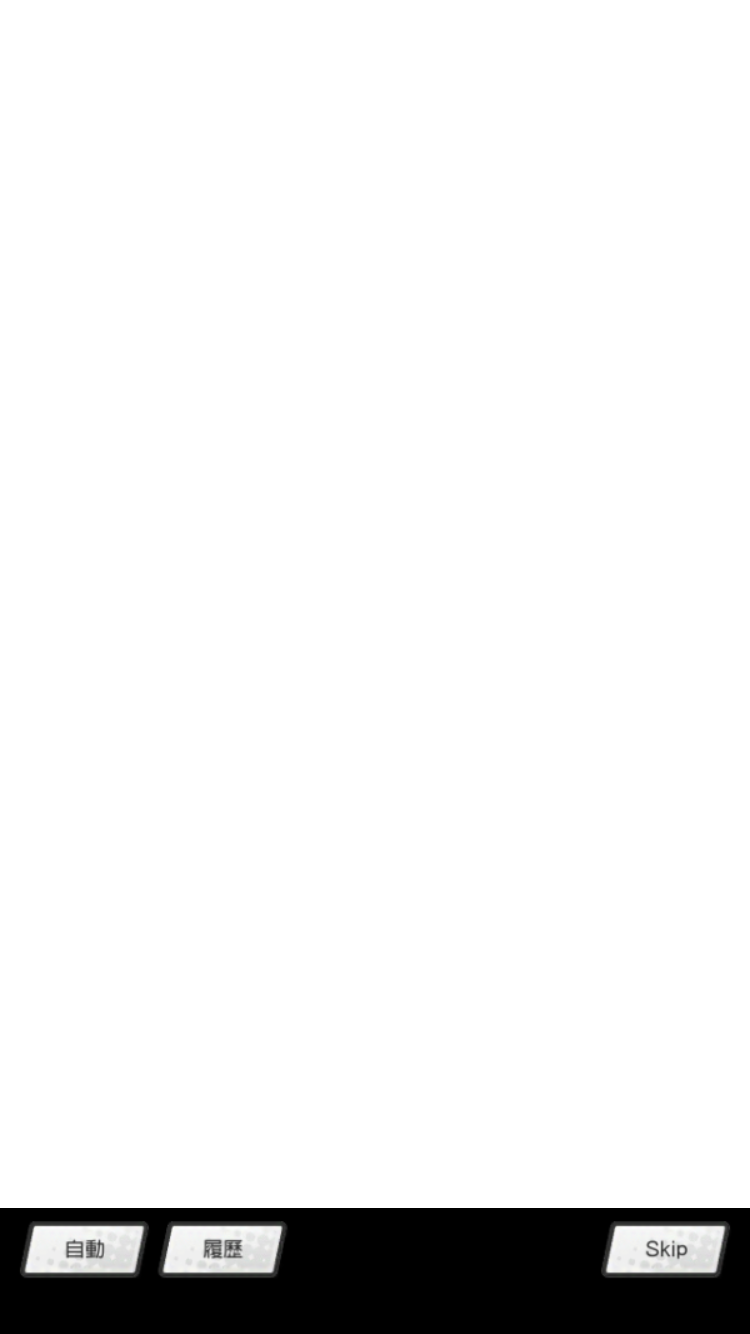
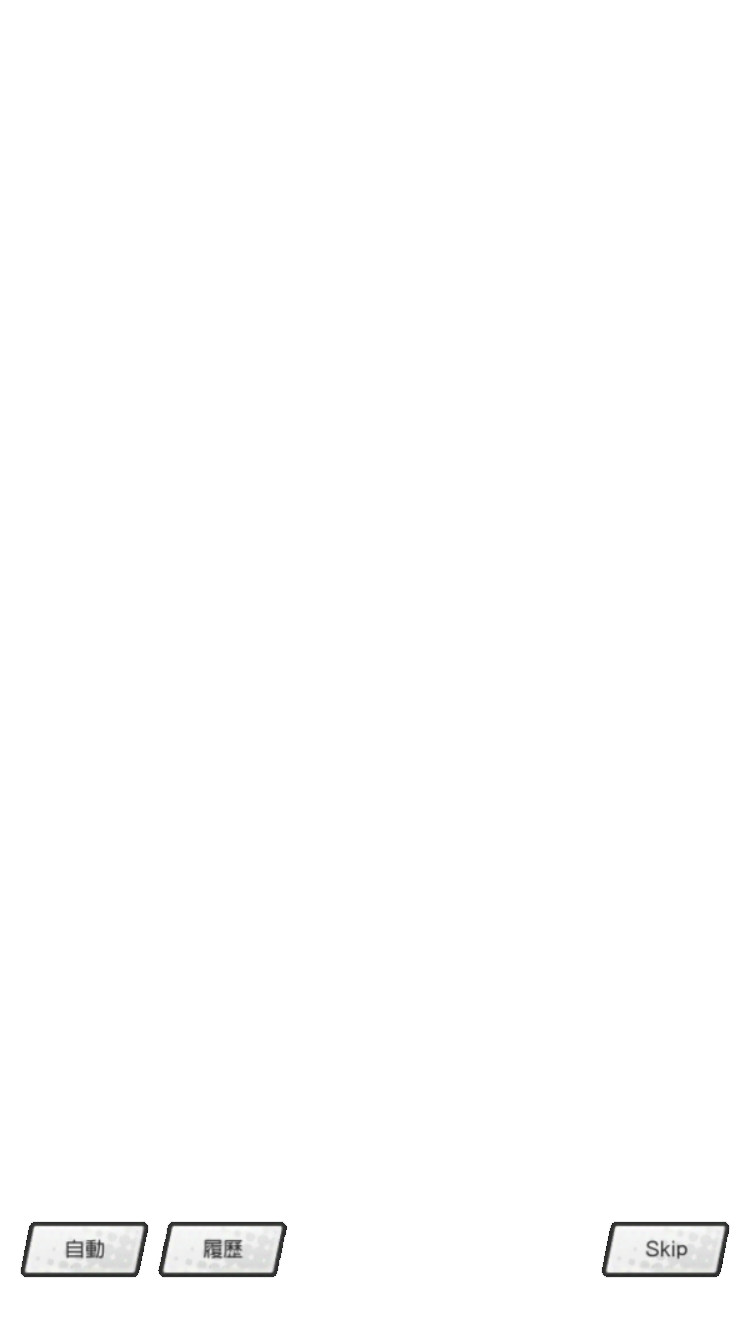
Add support for different dialogue types

Changed region(s): [[0.0, 0.8913, 1.0, 1.0]]

diff --git a/main.js b/main.js
@@ -111,11 +111,18 @@
   }
 
   async function loadTextures() {
-    if(!textures.background) {
+    if(!textures.loaded) {
       textures.bar = await loadImage("images/bar.png");
+      textures.caption = await loadImage("images/caption.png");
+      textures.book = await loadImage("images/book.png");
+      textures.fullscreen = await loadImage("images/fullscreen.png");
+      textures.introBack = await loadImage("images/introBack.png");
+      textures.introBar = await loadImage("images/introBar.png");
       textures.skipjp = await loadImage("images/skipjp.png");
       textures.skipzh_tw = await loadImage("images/skipcn.png");
       textures.skipzh_cn = await loadImage("images/skipcn.png");
+      textures.skipen_us = await loadImage("images/skipen_us.png");
+      textures.loaded = true;
     }
   }
 
@@ -133,19 +140,38 @@
     const ctx = canvas.getContext("2d");
     const ctxPreview = preview.getContext("2d");
 
+    // Get draw type
+    const dialogueType = qs("input[name=stdialogue]:checked").value;
+    const lang =  qs("input[name=font]:checked").value;
+
     // Clear the canvas
     ctx.clearRect(0, 0, canvas.width, canvas.height);
     ctxPreview.clearRect(0, 0, preview.width, preview.height);
 
     // Load images for use
     await loadTextures();
-    const bar = textures.bar;
-    const lang =  qs("input[name=font]:checked").value;
+
+    let bar = textures.bar;
+
+    if(dialogueType === "intro") {
+      bar = textures.introBar;
+      ctx.drawImage(textures.introBack, 0, 0);
+    }
+    if(dialogueType === "caption" || dialogueType === "narration") {
+      bar = textures.caption;
+    }
+    if(dialogueType === "full") {
+      bar = textures.fullscreen;
+    }
+    if(dialogueType === "book") {
+      ctx.drawImage(textures.book, 0, 0);
+      bar = textures["skip" + lang];
+    }
 
     // Draw Layers
     for(let i = 0; i < layers.length; i++) {
       let layer = layers[i];
-      drawImageWithData(ctx, canvas.width / 2, canvas.height / 2, layer)
+      drawImageWithData(ctx, canvas.width / 2, canvas.height / 2, layer, dialogueType === "intro")
     }
 
     await drawEmotion(ctx);
@@ -156,7 +182,7 @@
       ctx.drawImage(textures["skip" + lang], 0, 0);
     }
 
-    drawDialogueText(ctx, lang);
+    drawDialogueText(dialogueType, ctx, lang);
 
     // Draw the editor canvas on the smaller preview canvas
     ctxPreview.drawImage(canvas, 0, 0, preview.width, preview.height);
@@ -171,7 +197,7 @@
    * @param {number} centerY - Where to center the image y position at
    * @param {Object} layer - Data of the image
    */
-  function drawImageWithData(ctx, centerX, centerY, layer) {
+  function drawImageWithData(ctx, centerX, centerY, layer, dropShadow = false) {
     // Sanitize the data passed in
     scale = parseFloat(layer.scale);
     centerX = parseFloat(centerX);
@@ -199,6 +225,14 @@
     if(rotation !== 0) {
       ctx.rotate(rotation * Math.PI / 180);
     }
+
+    if(dropShadow) {
+      ctx.shadowColor = 'rgba(0, 0, 0, .25)';
+      ctx.shadowOffsetX = 20;
+      ctx.shadowOffsetY = 20;
+    }
+
+    ctx.globalAlpha = layer.opacity;
 
     ctx.translate(-centerX - offsetX, -centerY - offsetY);
 
@@ -240,27 +274,76 @@
    * @param {CanvasRenderingContext2D} ctx - Context of the canvas to draw on
    * @param {string} lang - language of the font to draw with
    */
-  function drawDialogueText(ctx, lang) {
+  function drawDialogueText(dialogueType, ctx, lang) {
     // Get text property and text to draw
     const prop = i18n[lang];
     const speakerName = id("name").value;
     const dialogue = id("dialogue").value;
 
-    ctx.font = `${prop.nameSize}px dragalialost${lang}`;
-
     // Draw speaker name
+    ctx.textAlign = "left";
+
+    ctx.font = `${prop.nameSize}px dragalialost${lang}`;
     ctx.fillStyle = "white";
-    ctx.fillText(speakerName, prop.speakerXPos, prop.speakerYPos);
+
+    if(dialogueType === "caption") {
+      ctx.font = `${prop.titleSize}px dragalialost${lang}`;
+      ctx.fillText(speakerName, (ctx.canvas.width - ctx.measureText(speakerName).width) / 2, prop.titleYPos);
+      ctx.fillRect(0, 430, ctx.canvas.width, 1);
+    } else if (dialogueType === "intro") {
+      drawSpeakerNameIntro(ctx, prop, lang, speakerName);
+    } else if(dialogueType !== "narration" && dialogueType !== "full" && dialogueType !== "book") {
+      ctx.fillText(speakerName, prop.speakerXPos, prop.speakerYPos);
+    }
 
     // Draw dialogue
-    ctx.font = `${prop.dialogueSize}px dragalialost${lang}`;
-    ctx.fillStyle = "#071726";
-    // Draw line by line
     let lines = dialogue.split("\n");
+
+    let fontSize = prop.dialogueSize;
+    let lineHeight = prop.lineHeight;
+
+    let startX = prop.dialogueXPos;
+    let startY = prop.dialogueYPos;
+
+    ctx.fillStyle = "#071726";
+
+    if(dialogueType === "intro") {
+      drawTitleIntro(ctx, prop, lang, dialogue);
+      return;
+    }
+
+    let center = false;
+
+    if(dialogueType === "caption") {
+      startY = prop.captionYPos;
+      ctx.fillStyle = "white";
+      fontSize = prop.captionSize;
+      center = true;
+    } else if(dialogueType === "narration" || dialogueType === "full") {
+      fontSize = prop.dialogueSize;
+      lineHeight = prop.narrationLineHeight;
+      startY = prop.narrationYPos - (fontSize + (lines.length - 1) * lineHeight) / 2;
+      ctx.fillStyle = "white";
+      center = true;
+    } else if(dialogueType === "book") {
+      fontSize = prop.dialogueSize;
+      lineHeight = prop.narrationLineHeight;
+      startY = ctx.canvas.height / 2 - ((lines.length - 1) * lineHeight) / 2;
+      ctx.fillStyle = "#412c29";
+      center = true;
+    }
+
+    ctx.font = `${fontSize}px dragalialost${lang}`;
+
+    // Draw line by line
     for (let i = 0; i < lines.length; i++) {
-      let x = prop.dialogueXPos;
-      let y = prop.dialogueYPos + i * prop.lineHeight;
-      drawDialogueLine(ctx, lang, lines[i], prop.dialogueSize, x, y);
+      let x = startX;
+      if(center) {
+        let base = lines[i].replace(/\(([^\)]+)\)\{([^\}]+)\}/g, (match, base, furigana, offset, string) => base);
+        x = (ctx.canvas.width - ctx.measureText(base).width) / 2;
+      }
+      let y = startY + i * lineHeight;
+      drawDialogueLine(ctx, lang, lines[i], fontSize, x, y);
     }
   }
 
@@ -306,6 +389,57 @@
   }
 
   /**
+   * Draws the speaker's name slanted for intro
+   * @param {CanvasRenderingContext2D} ctx
+   * @param {Object} prop - property of the text
+   * @param {string} lang - Language of the font to draw with
+   * @param {string} speakerName - Text to draw
+   */
+  function drawSpeakerNameIntro(ctx, prop, lang, speakerName) {
+    ctx.save();
+
+    ctx.font = `${prop.introNameSize}px dragalialost${lang}`;
+    let textWidth = ctx.measureText(speakerName).width;
+
+    let x = ctx.canvas.width;
+    ctx.translate(x, prop.introNameYPos);
+    ctx.rotate(-6.25 * Math.PI / 180);
+    ctx.translate(-x, -prop.introNameYPos);
+
+    ctx.strokeStyle = "#333333";
+    ctx.lineWidth = 8;
+    ctx.miterLimit = 2;
+    ctx.strokeText(speakerName, ctx.canvas.width - textWidth - prop.introXPos, prop.introNameYPos);
+    ctx.fillText(speakerName, ctx.canvas.width - textWidth - prop.introXPos, prop.introNameYPos);
+
+    ctx.restore();
+  }
+
+  /**
+   * Draws the speaker's name slanted for intro
+   * @param {CanvasRenderingContext2D} ctx
+   * @param {Object} prop - property of the text
+   * @param {string} lang - Language of the font to draw with
+   * @param {string} speakerName - Text to draw
+   */
+  function drawTitleIntro(ctx, prop, lang, text) {
+    ctx.save();
+
+    ctx.font = `${prop.introTitleSize}px dragalialost${lang}`;
+    let textWidth = ctx.measureText(text).width;
+
+    let x = ctx.canvas.width;
+    ctx.translate(x, prop.introTitleYPos);
+    ctx.rotate(-6.25 * Math.PI / 180);
+    ctx.translate(-x, -prop.introTitleYPos);
+
+    ctx.fillStyle = "#333333";
+    ctx.fillText(text, ctx.canvas.width - textWidth - prop.introXPos, prop.introTitleYPos);
+
+    ctx.restore();
+  }
+
+  /**
    * Generate a download link and click it
    */
   async function downloadImage() {
@@ -314,6 +448,7 @@
     this.innerText = i18n[pageLang].loc.download;
 
     id("downloadLink").href = URL.createObjectURL(blob);
+    id("downloadLink").download = `${id("name").value.toLowerCase()}_dialogue_screen.png`;
     id("downloadLink").click();
   }
 
@@ -344,6 +479,7 @@
       "offsetY": 0,
       "rotation": 0,
       "scale": 1,
+      "opacity": 1,
       "flipX": false
     }
 
@@ -598,22 +734,12 @@
     layerNameContainer.appendChild(layerNameInput);
 
     settingContainer.appendChild(layerNameContainer);
+    settingContainer.appendChild(createSliderGroup(loc.layerOpacity, 0, 1, 0.01, 1, (value) => { layer.opacity = value; drawDialogueScreen(); }));
     settingContainer.appendChild(createSliderGroup(loc.layerOffsetX, -400, 400, 1, 0, (value) => { layer.offsetX = value; drawDialogueScreen(); }));
     settingContainer.appendChild(createSliderGroup(loc.layerOffsetY, -400, 400, 1, 0, (value) => { layer.offsetY = value; drawDialogueScreen(); }));
     settingContainer.appendChild(createSliderGroup(loc.layerRotation, -180, 180, 0.1, 0, (value) => { layer.rotation = value; drawDialogueScreen(); }));
     let scaleSliderGroup = createSliderGroup(loc.layerScale, 0, 3, 0.1, 1, (value) => { layer.scale = value; drawDialogueScreen(); });
 
-    let flipXContainer = document.createElement("div");
-    let flipXLabel = document.createElement("label");
-
-    flipXLabel.innerText = loc.flipX;
-    let flipX = document.createElement("input");
-    flipX.type = "checkbox";
-    flipX.addEventListener("change", function(){ layer.flipX = this.checked; drawDialogueScreen(); });
-    flipXContainer.appendChild(flipXLabel);
-    flipXContainer.appendChild(flipX);
-
-    settingContainer.appendChild(flipXContainer);
 
     let autoButton = document.createElement("button");
     autoButton.classList.add("button");
@@ -625,6 +751,14 @@
       numInput.value = newScale;
       numInput.dispatchEvent(new Event('change'));
     });
+
+    let flipXLabel = document.createElement("label");
+    flipXLabel.innerText = loc.flipX;
+    let flipX = document.createElement("input");
+    flipX.type = "checkbox";
+    flipX.addEventListener("change", function(){ layer.flipX = this.checked; drawDialogueScreen(); });
+    scaleSliderGroup.appendChild(flipX);
+    scaleSliderGroup.appendChild(flipXLabel);
 
     scaleSliderGroup.appendChild(autoButton);
 

diff --git a/jp.html b/jp.html
@@ -145,6 +145,23 @@
         </div>
 
         <div>
+          <label>タイプ</label>
+          <input type="radio" autocomplete="off" name="stdialogue" value="dialogue" checked>
+          <label>会話</label>
+          <input type="radio" autocomplete="off" name="stdialogue" value="intro">
+          <label>カットイン</label>
+          <input type="radio" autocomplete="off" name="stdialogue" value="caption">
+          <label>タイトル</label>
+          <br>
+          <input type="radio" autocomplete="off" name="stdialogue" value="full">
+          <label>フルアート</label>
+          <input type="radio" autocomplete="off" name="stdialogue" value="narration">
+          <label>ナレーション</label>
+          <input type="radio" autocomplete="off" name="stdialogue" value="book">
+          <label>本</label>
+        </div>
+
+        <div>
           <label>フォント</label>
           <input type="radio" id="en" name="font" value="en">
           <label for="en">English</label>

diff --git a/index.html b/index.html
@@ -145,6 +145,23 @@
         </div>
 
         <div>
+          <label>Type</label>
+          <input type="radio" autocomplete="off" name="stdialogue" value="dialogue" checked>
+          <label>Dialogue</label>
+          <input type="radio" autocomplete="off" name="stdialogue" value="intro">
+          <label>Intro</label>
+          <input type="radio" autocomplete="off" name="stdialogue" value="caption">
+          <label>Caption</label>
+          <br>
+          <input type="radio" autocomplete="off" name="stdialogue" value="full">
+          <label>Full Screen</label>
+          <input type="radio" autocomplete="off" name="stdialogue" value="narration">
+          <label>Narration</label>
+          <input type="radio" autocomplete="off" name="stdialogue" value="book">
+          <label>Book</label>
+        </div>
+
+        <div>
           <label>Font</label>
           <input type="radio" id="en" name="font" value="en_us" checked>
           <label for="en">English</label>

diff --git a/zh_cn.html b/zh_cn.html
@@ -144,6 +144,23 @@
         </div>
 
         <div>
+          <label>对话类型</label>
+          <input type="radio" autocomplete="off" name="stdialogue" value="dialogue" checked>
+          <label>一般</label>
+          <input type="radio" autocomplete="off" name="stdialogue" value="intro">
+          <label>进场</label>
+          <input type="radio" autocomplete="off" name="stdialogue" value="caption">
+          <label>标题</label>
+          <br>
+          <input type="radio" autocomplete="off" name="stdialogue" value="full">
+          <label>全萤幕</label>
+          <input type="radio" autocomplete="off" name="stdialogue" value="narration">
+          <label>叙述</label>
+          <input type="radio" autocomplete="off" name="stdialogue" value="book">
+          <label>书</label>
+        </div>
+
+        <div>
           <label>字型</label>
           <input type="radio" id="en" name="font" value="en">
           <label for="en">English</label>

diff --git a/zh_tw.html b/zh_tw.html
@@ -144,6 +144,23 @@
         </div>
 
         <div>
+          <label>對話類型</label>
+          <input type="radio" autocomplete="off" name="stdialogue" value="dialogue" checked>
+          <label>一般</label>
+          <input type="radio" autocomplete="off" name="stdialogue" value="intro">
+          <label>進場</label>
+          <input type="radio" autocomplete="off" name="stdialogue" value="caption">
+          <label>標題</label>
+          <br>
+          <input type="radio" autocomplete="off" name="stdialogue" value="full">
+          <label>全螢幕</label>
+          <input type="radio" autocomplete="off" name="stdialogue" value="narration">
+          <label>敘述</label>
+          <input type="radio" autocomplete="off" name="stdialogue" value="book">
+          <label>書</label>
+        </div>
+
+        <div>
           <label>字型</label>
           <input type="radio" id="en" name="font" value="en">
           <label for="en">English</label>

diff --git a/style.css b/style.css
@@ -205,6 +205,7 @@ section {
 
 .settings input ~ label {
   display: inline;
+  margin-right: 1rem;
 }
 
 .settings input[type=number] {
